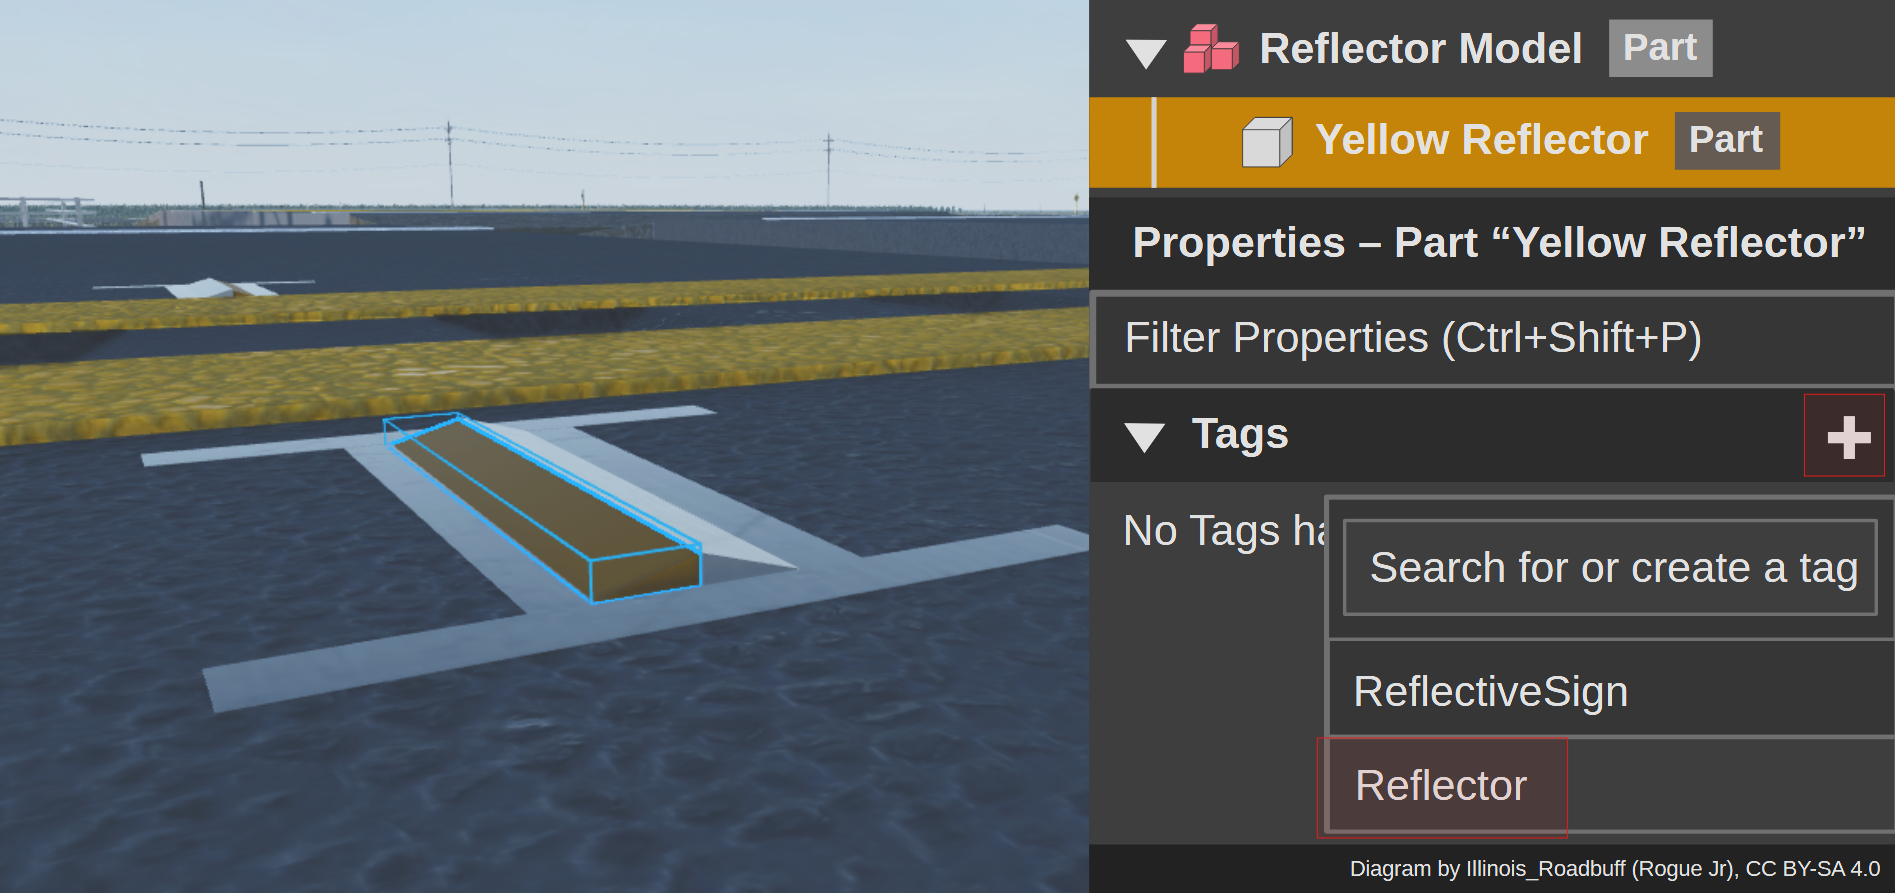
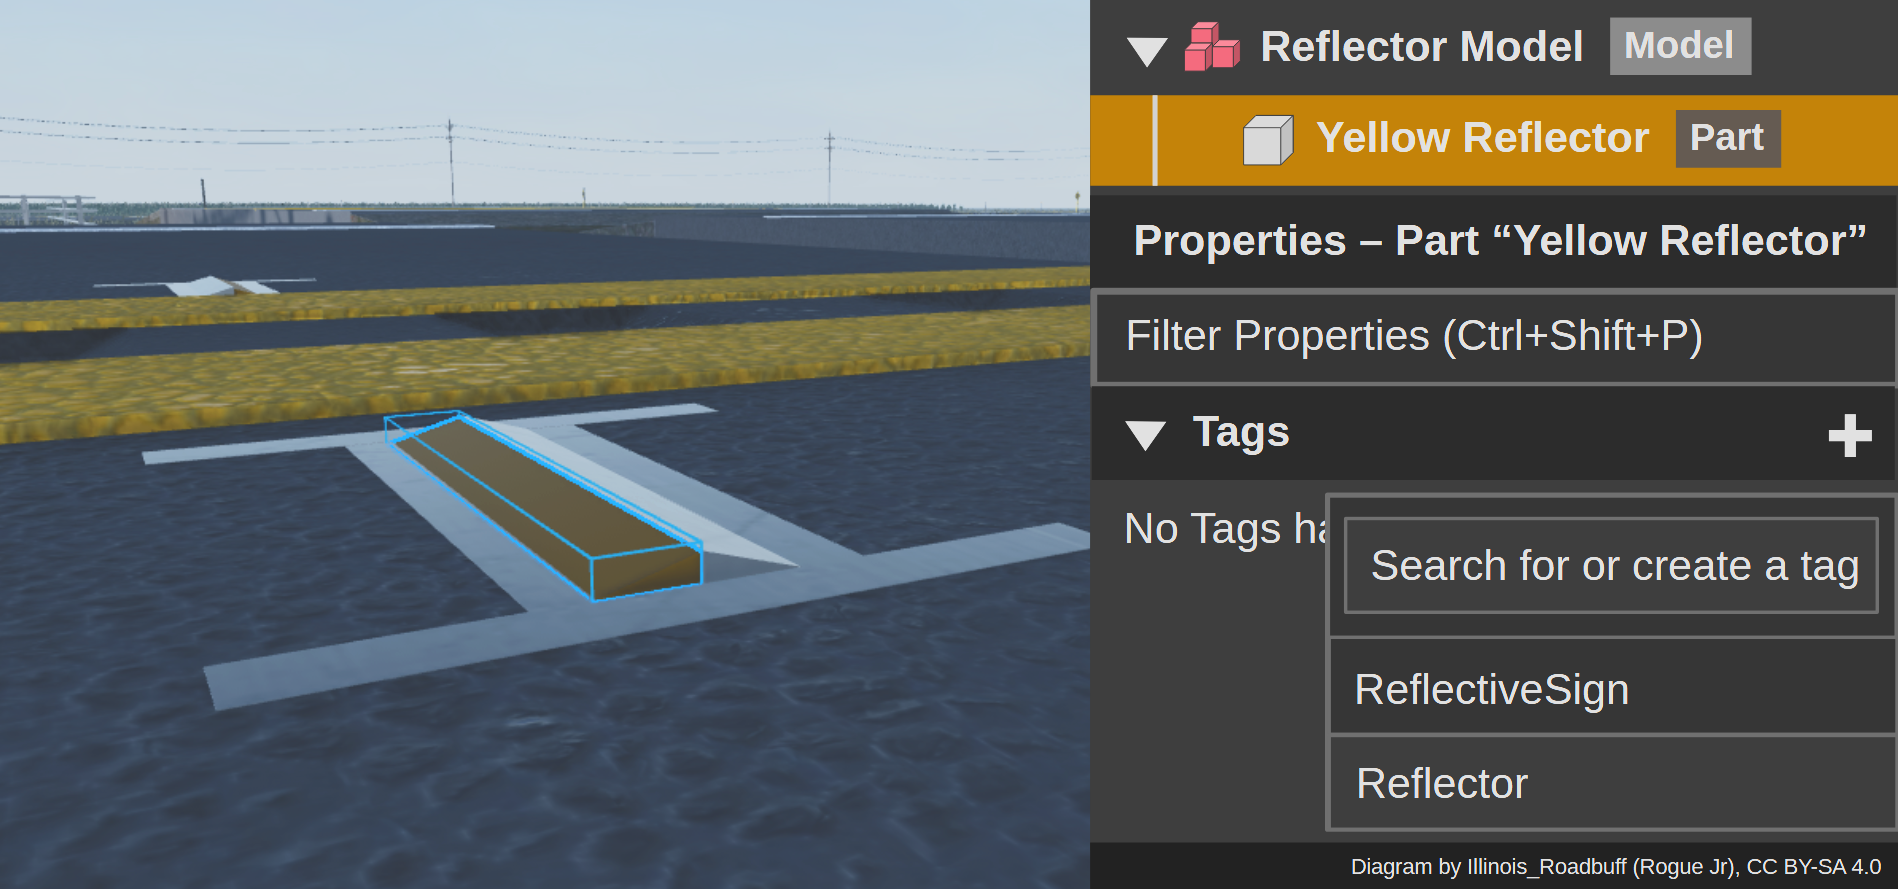
docs: add/fix new figures and finish tags draft

diff --git a/docs/standalone/005_tags.md b/docs/standalone/005_tags.md
@@ -2,7 +2,7 @@
 
 Tags are the most recommended way to register and unregister signs and reflectors. It allows to find certain objects regardless of their location in the workspace, AND filters out other objects that may otherwise cause overhead.
 
-Tags should be applied to signs and reflectors BEFORE runtime.
+Tags should be applied to signs and reflectors BEFORE the module starts.
 
 ### Method 1: Fresh Project
 
@@ -16,127 +16,48 @@ Tags should be applied to signs and reflectors BEFORE runtime.
 
 NOTE: The default tag for signs is `ReflectiveSign` whereas the default tag for reflectors is `Reflector`. If you changed the configuration for tags, *you may have a different tag name.*
 
-***Before we go any further, you would first want to add helper functions.***
+### Method 2: Existing Project
 
-*1. Add a function determining the light strength of the provided vehicle:*
+**Should you have an existing project with already built signs and reflectors WITHOUT tags, you can add tags during runtime in the server.**
+
+If you already have unique identifiers (`Size`, `Color`, `Name`, etc.) for signs and reflectors, this method should be easy for you.
+
+**Example 1:** Signs | Make a script that adds a tag to a part if it matches with a unique identifier (in this case, `Name`)
+
+![Diagram](../../assets/images/005_tags_fig3.png)
+
 ```luau
--- Light Reflector Handler
--- client.handler.luau (continued)
+-- server.handler.luau
 
--- Assuming this is an A-Chassis vehicle
-local function determineIntensity(vehicle: Model)
-    -- This is just an example and every headlight system will be different.
-    local values = vehicle.DriveSeat:FindFirstChild("Values")
-    local intensity = 1
+local CollectionService = game:GetService("CollectionService")
+local signFolder = workspace.Signs
+local signTagName = "ReflectiveSign"
 
-    -- If the high beams are enabled, then the intensity will be greater.
-    if values and values.HighBeam.Value == true then
-        intensity = 1.5
-    end
-
-    -- continue on....
-
-    return intensity
-end
-```
-
-*2. Add a function that returns the `ValueBase` that determines if any headlight is on in the provided vehicle:*
-```luau
--- Light Reflector Handler
--- client.handler.luau (continued)
-
--- Assuming this is an A-Chassis vehicle
-local function CheckForRegLightValue(vehicle: Model)
-    -- This is just an example and every headlight system will be different.
-    local values = vehicle.DriveSeat:FindFirstChild("Values")
-
-    -- Just check if there is a headlight value
-    if values and values:FindFirstChild("LowBeam") then
-        return values.LowBeam
-    end
-
-    -- continue on....
-
-    -- Use `true` as a fallback if you cannot return any values. 
-    -- Note that this will enable the source for the respective vehicle regardless if the headlighs are on or not.
-    return true
-end
-```
-
-*3. Add a function that determines if a provided model is actually a vehicle:*
-```luau
-local function isAVehicle(model: Model)
-
-    -- First check if the model is actually a model
-    if not model:IsA("Model") then
-        -- Not a model, so not a vehicle either!
-        return false
-    end     
-
-    -- Add a variable to avoid repetition
-    local VehicleSeat = vehicle:FindFirstChildOfClass("VehicleSeat")
-
- -- Something that is `nil` means that it does NOT exist
-   if VehicleSeat == nil then
-       -- Use a different method
-       VehicleSeat = vehicle:WaitForChild("DriveSeat",5) -- Assuming A-Chassis vehicle
-       -- Wait for 5 seconds in case the seat may pop up
-   else 
-        -- Since a VehicleSeat exists, it is inferred that the model IS a vehicle!
-        return true
-   end
-
- -- Check if the VehicleSeat exists again from the second method
-   if VehicleSeat then
-       -- The VehicleSeat exists! It is a vehicle!
-       return true
-   end
-
-   -- This model failed the checks and is NOT a vehicle
-   return false
-end
-```
-
-### Registering/Unregistering
-
-**Now that you have your helper functions, let's index the vehicles into Light Reflector!**
-
-Your script should look similar to the accompanying sample below:
-```luau
-local vehicles: Folder = workspace.Vehicle
-
--- Find cars that are already existing
-for index: number, vehicle: Instance in vehicles:GetChildren() do
-    if isAVehicle(vehicle) then
-        lightreflector.register.addVehicle(vehicle, CheckForRegLightValue(vehicle), determineIntensity)
+for index: number, part: Instance in signFolder:GetDescendants() do
+    if part:IsA("BasePart") and part.Name == "Sign" then
+        CollectionService:AddTag(part, signTagName)
     end
 end
-
--- Find cars that MAY spawn
-vehicles.ChildAdded:Connect(function(vehicle)
-	task.wait() -- a-chassis init reasons
-	if isAVehicle(vehicle) then
-		print("Indexed vehicle")
-		lightreflector.register.addVehicle(vehicle, CheckForRegLightValue(vehicle), determineIntensity)
-	end
-end)
 ```
 
-**Do not stop yet! You must also unregister the vehicles upon deletion**
+**Example 2:** Reflectors | Make a script that adds a tag to a part if it matches with a unique identifier (in this case, `Name`)
 
-If you do not unregister the vehicles, *it WILL cause memory leaks and possibly brick the entire system.*
+![Diagram](../../assets/images/005_tags_fig4.png)
 
-Your script should look similar to the accompanying sample below:
 ```luau
--- Find cars that are removed
-vehicles.ChildRemoved:Connect(function(vehicle)
-	if isAVehicle(vehicle) then
-		print("Removing car")
-		lightreflector.register.removeVehicle(vehicle)
-	end
-end)
+-- server.handler.luau
+
+local CollectionService = game:GetService("CollectionService")
+local roadFolder = workspace.Roads
+local reflectorTagName = "Reflector"
+
+for index: number, part: Instance in roadFolder:GetDescendants() do
+    if part:IsA("BasePart") and part.Name == "Reflector" then
+        CollectionService:AddTag(part, reflectorTagName)
+    end
+end
 ```
 
-### Next, learn how to tag reflectors and signs, as well as how to register or unregister them!
+### Next, learn about registering signs and reflectors without tags!
 
-***A completed sample can be found at `root/examples/vehicle-reflector-handler.client.luau`!***
+***A completed sample can be found at `root/examples/tag-reflector.server.luau`!***

diff --git a/docs/standalone/004_vehicles.md b/docs/standalone/004_vehicles.md
@@ -44,7 +44,7 @@ local function CheckForRegLightValue(vehicle: Model)
     -- continue on....
 
     -- Use `true` as a fallback if you cannot return any values. 
-    -- Note that this will enable the source for the respective vehicle regardless if the headlighs are on or not.
+    -- Note that this will enable the source for the respective vehicle regardless if the headlights are on or not.
     return true
 end
 ```
